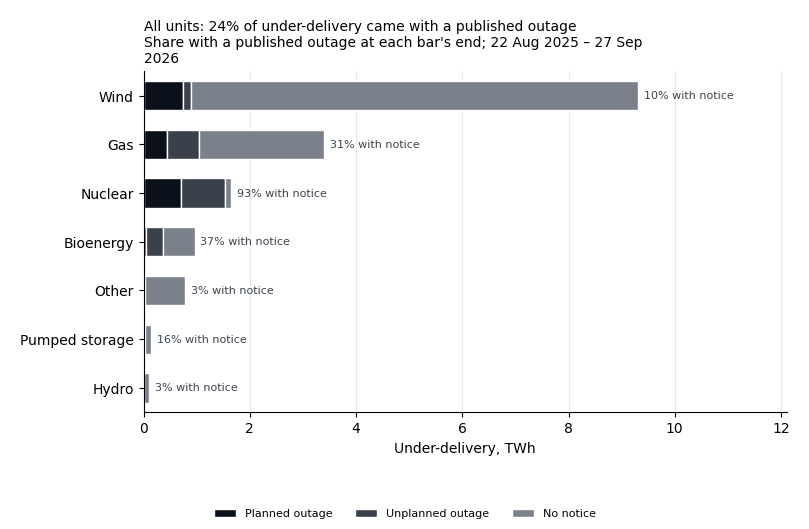
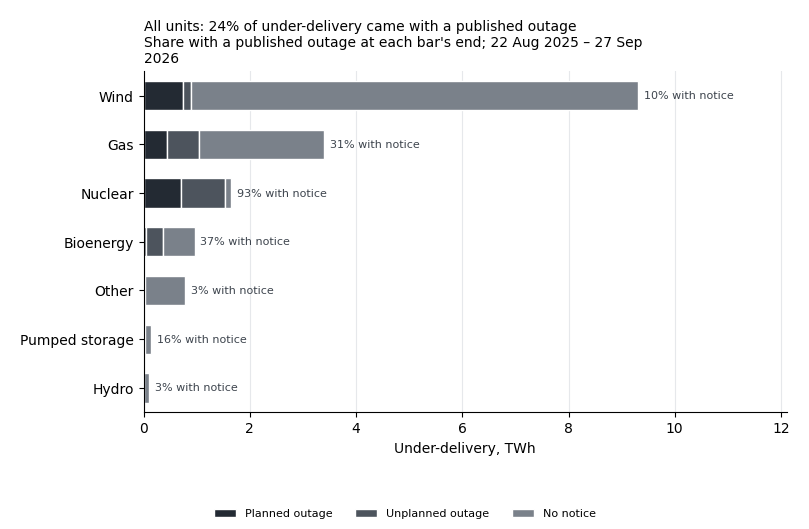
Results page: Q23's gap not called the unit's own, Q24's part month, lighter strong grey
- Q23's answer no longer says any gap is the unit's own miss: with no
  instruction in force the gap shows how far a unit strayed, not why.
- Q24's caption keeps its computed settlement months and says the first is
  a part month, from 22 August 2025, the first day its read records.
- The light strong split grey moves from near-black #0a111a to #232a33,
  lighter than the page's text; the light mid grey moves to #4d545d.
  Neighbouring greys are at least 1.8:1 apart in both modes, and the
  comment now says so.
- Tests: the light strong grey stays lighter than the page's text and
  neighbours stay 1.8:1 apart; Q24's part month starts on its read's first
  day; Q23's answer is pinned; Q2's population phrase is spelt out, not
  built by slicing.

Changed region(s): [[0.1545, 0.3327, 0.2472, 0.3932], [0.1545, 0.1512, 0.2472, 0.2117], [0.1545, 0.242, 0.2163, 0.3025]]

diff --git a/site/index.html b/site/index.html
@@ -359,7 +359,7 @@
 
   <article id="q23">
     <h3>When NESO has not asked a unit to change its output, how closely does it follow its own plan? <span class="tag">Q23</span></h3>
-    <p class="answer">Wind strays most. Only half-hours with no NESO instruction count, so any gap is the unit's own miss. From September 2025 to August 2026, the median wind farm missed its plan by <strong>6.3 to 8.0%</strong> of its capacity in every whole month; the median unit of every other type, by under 3.5%. In September 2026, on early meter data, wind and bioenergy rose above their whole-month range; this is provisional and not explained.</p>
+    <p class="answer">Wind strays most. Only half-hours with no NESO instruction count. The gap shows how far a unit strayed from its plan, not why. From September 2025 to August 2026, the median wind farm missed its plan by <strong>6.3 to 8.0%</strong> of its capacity in every whole month; the median unit of every other type, by under 3.5%. In September 2026, on early meter data, wind and bioenergy rose above their whole-month range; this is provisional and not explained.</p>
     <figure>
       <div class="chart" id="q23-typical-chart"></div>
       <figcaption>Half-hours with no instruction in force, whole months September 2025 to August 2026. The pale line shows only for groups of 20 units or more; coal (closed units) is left out. Source: Elexon BMRS.</figcaption>
@@ -522,7 +522,7 @@
     <p class="answer">Almost all of it for wind (<strong>97%</strong> of 13.4 TWh, settlement months Aug 2025 – Sep 2026) and hydro (93%), and 70% for pumped storage. The flag marks an instruction as possibly for network reasons, such as relieving a bottleneck, rather than balancing supply and demand. For bioenergy, the other group (mostly batteries) and gas it is 24%, 31% and 35%.</p>
     <figure>
       <div class="chart" id="q24-chart"></div>
-      <figcaption>Settlement months Aug 2025 – Sep 2026. Units with a published fuel type only: they carry 42.5% of all instructions. Coal and nuclear units had none. Source: Elexon BMRS.</figcaption>
+      <figcaption>Settlement months Aug 2025 – Sep 2026; the first is a part month, from 22 August 2025. Units with a published fuel type only: they carry 42.5% of all instructions. Coal and nuclear units had none. Source: Elexon BMRS.</figcaption>
     </figure>
     <details class="method">
       <summary>How we measured it</summary>
@@ -851,8 +851,8 @@
   // The greys that split a bar into parts, strongest against the page first,
   // light and dark. In dark mode the strong grey is the lightest.
   const splitGreys = {
-    strong: ["#0a111a", "#dfe6ef"],
-    mid: ["#3a414a", "#a6adb6"],
+    strong: ["#232a33", "#dfe6ef"],
+    mid: ["#4d545d", "#a6adb6"],
     soft: ["#7a818a", "#5b626b"],
   };
 

diff --git a/tests/test_readme_charts.py b/tests/test_readme_charts.py
@@ -1379,11 +1379,47 @@ def test_q2s_week_is_its_registered_population_and_q22s():
     # Q2's and Q22's outputs hold no dates, so the week is their rules'.
     first_day, rest = Q2_WEEK.split("–")
     last_day, month, year = rest.split(" ")
-    dates = f"settlement dates {first_day} to {last_day} {FULL_MONTHS[month]} {year}"
+    week = f"{first_day} to {last_day} {FULL_MONTHS[month]} {year}"
+    q2_population = f"**Population.** Settlement dates {week}, every BM unit"
+    q22_run = f"run of settlement dates {week}, side by side"
     questions = QUESTIONS.read_text(encoding="utf-8")
 
-    assert f"**Population.** S{dates[1:]}, every BM unit" in questions
-    assert f"run of {dates}, side by side" in questions
+    assert q2_population in questions
+    assert q22_run in questions
+
+
+def q24_data_start(page):
+    """The first day of Q24's read, from its How we measured it entry."""
+    article = page.split('<article id="q24">', 1)[1].split("</article>", 1)[0]
+    found = re.search(r"<dt>Data</dt>\s*<dd>(\d{1,2} [A-Z][a-z]+ \d{4}) to ", article)
+    return found.group(1)
+
+
+def test_q24s_part_month_starts_on_its_reads_first_day():
+    # Q24's output holds months only; its first month is a part month, and
+    # the day it starts is the one its read records.
+    page = PAGE.read_text(encoding="utf-8")
+    q24 = output_month_range(saved_output_rows("q24_system_action_share.csv"))
+    first_month, first_year = q24.split(" – ")[0].split(" ")
+    start = q24_data_start(page)
+
+    assert start.endswith(f" {FULL_MONTHS[first_month]} {first_year}")
+    assert f"the first is a part month, from {start}. Units with" in page
+
+
+def test_q23s_answer_says_how_far_units_strayed_not_why():
+    # With no instruction in force the gap can still hold a forecast miss,
+    # energy bought outside the Balancing Mechanism, a declared cut or a
+    # settlement estimate, so the page does not call it the unit's own.
+    page = PAGE.read_text(encoding="utf-8")
+    answer = page.split('<article id="q23">', 1)[1].split('<p class="answer">', 1)[1]
+    answer = answer.split("</p>", 1)[0]
+
+    assert (
+        "Only half-hours with no NESO instruction count. The gap shows how far "
+        "a unit strayed from its plan, not why." in answer
+    )
+    assert "unit's own" not in answer
 
 
 def test_the_page_states_each_energy_figure_beside_its_saved_output_range():
@@ -1400,7 +1436,7 @@ def test_the_page_states_each_energy_figure_beside_its_saved_output_range():
         f"0.03 MWh per unit per half-hour (bioenergy, {Q2_WEEK}).",
         f"of under-delivery ({q5}) came with a published outage",
         f"of 13.4 TWh, settlement months {q24})",
-        f"<figcaption>Settlement months {q24}. Units with",
+        f"<figcaption>Settlement months {q24}; the first is a part month",
         f"Most of it for gas, hydro and pumped storage ({q3}): <strong>83 to 91%",
         "NESO never instructed a nuclear unit in those dates.",
         f"No. Over {q28}, the fifth of half-hours with the biggest misses",
@@ -1567,7 +1603,14 @@ def test_every_split_grey_stands_out_from_the_page_and_its_neighbour():
     # interconnectors, a neutral result or a comparison.
     page = PAGE.read_text(encoding="utf-8")
     light_page, dark_page = re.findall(r"--surface: (#[0-9a-f]{6});", page)
+    light_text = re.findall(r"--text: (#[0-9a-f]{6});", page)[0]
     steps = ["strong", "mid", "soft"]
+
+    # The light strong grey stays lighter than the page's text, so a bar
+    # part does not read as text.
+    assert contrast_ratio(SPLIT_GREYS["strong"][0], light_page) < contrast_ratio(
+        light_text, light_page
+    )
 
     for mode, surface in enumerate([light_page, dark_page]):
         greys = []
@@ -1576,7 +1619,7 @@ def test_every_split_grey_stands_out_from_the_page_and_its_neighbour():
         for grey in greys:
             assert contrast_ratio(grey, surface) >= 3.0
         for upper, lower in zip(greys[:-1], greys[1:], strict=True):
-            assert contrast_ratio(upper, lower) >= 1.5
+            assert contrast_ratio(upper, lower) >= 1.8
     other_greys = set(FUEL_GROUP_COLOURS["interconnector"])
     other_greys.update([NEUTRAL_MARK_COLOUR, COMPARISON_COLOUR])
     for light, dark in SPLIT_GREYS.values():

diff --git a/scripts/readme_charts.py b/scripts/readme_charts.py
@@ -413,12 +413,13 @@ LOG_SHARE_TICKS = [0.01, 0.1, 1, 10, 100]
 # instructed, flagged or planned part takes the strong grey, unplanned the
 # mid, the rest the soft. In dark mode the strong grey is the lightest, so it
 # still stands out most. Every grey, the soft one too, reaches 3:1 against
-# the page; neighbouring greys differ by about 2:1 or more, and a 2 px gap
-# in the page's own colour separates the parts. The page
-# registers each set for its colour mode as a scheme the specs name.
+# the page; neighbouring greys differ by at least 1.8:1, and a 2 px gap in
+# the page's own colour separates the parts. The light strong grey stays
+# lighter than the page's text, so a bar part does not read as text. The
+# page registers each set for its colour mode as a scheme the specs name.
 SPLIT_GREYS = {
-    "strong": ("#0a111a", "#dfe6ef"),
-    "mid": ("#3a414a", "#a6adb6"),
+    "strong": ("#232a33", "#dfe6ef"),
+    "mid": ("#4d545d", "#a6adb6"),
     "soft": ("#7a818a", "#5b626b"),
 }
 SPLIT_TWO_SCHEME = "gridskew-split-two"
